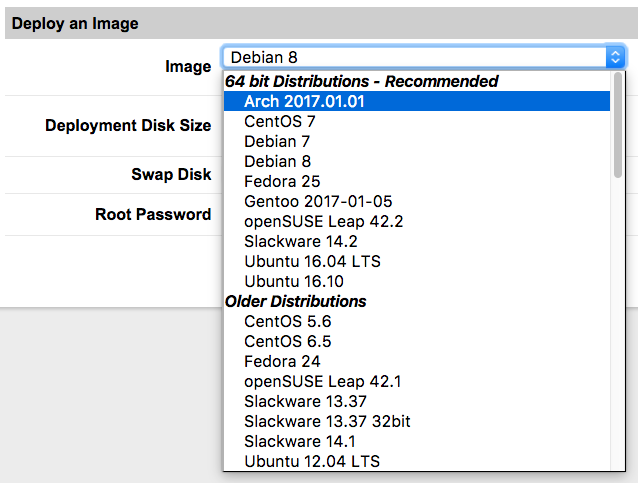
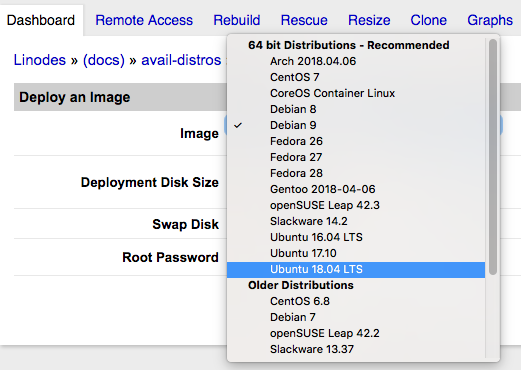
updated screenshots of distros

diff --git a/docs/tools-reference/custom-kernels-distros/run-a-distribution-supplied-kernel.md b/docs/tools-reference/custom-kernels-distros/run-a-distribution-supplied-kernel.md
@@ -6,7 +6,7 @@ description: "Use the Linode Manager's GRUB 2 boot setting to run your distribut
 keywords: ["kvm", "custom linux", " kernel", "custom linode", "grub", "grub 2"]
 license: '[CC BY-ND 4.0](http://creativecommons.org/licenses/by-nd/4.0/)'
 aliases: ['run-a-distribution-supplied-kernel-with-kvm/']
-modified: 2017-10-18
+modified: 2018-05-01
 modified_by:
   name: Linode
 published: 2015-06-29
@@ -42,7 +42,7 @@ The steps in this section currently apply only to the distributions under *Recom
 6.  Once booted, you can verify the kernel information with `uname`:
 
         [root@archlinux ~]# uname -r
-        4.11.7-1-ARCH
+        4.15.14-1-ARCH
 
 If you want to switch back to the Linode kernel at any time:
 
